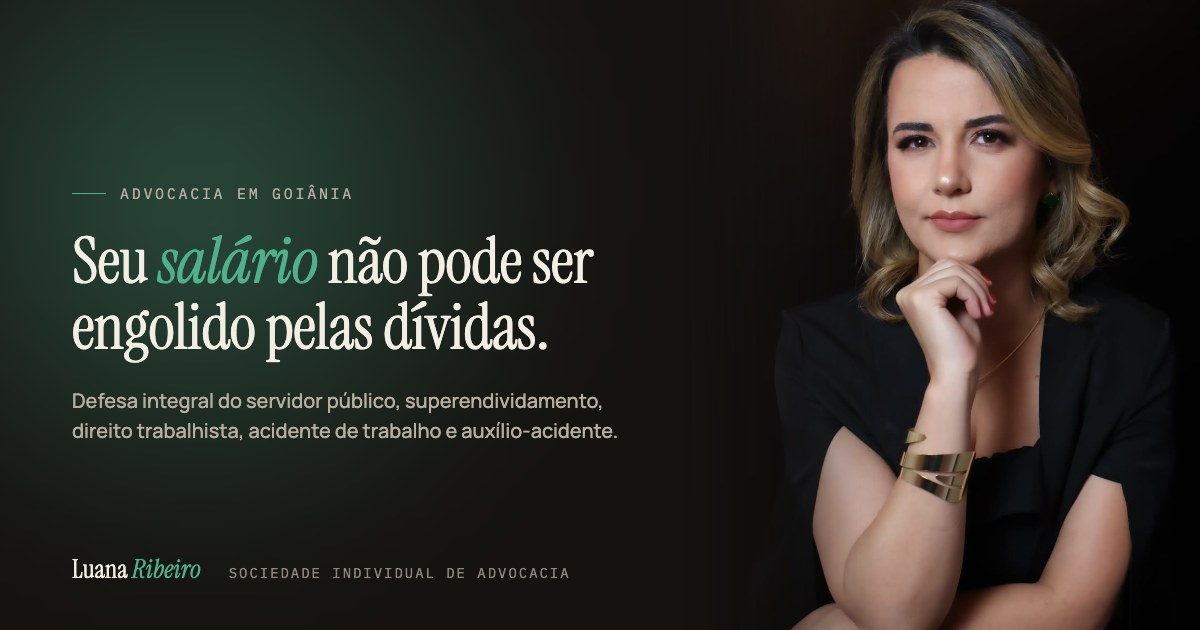
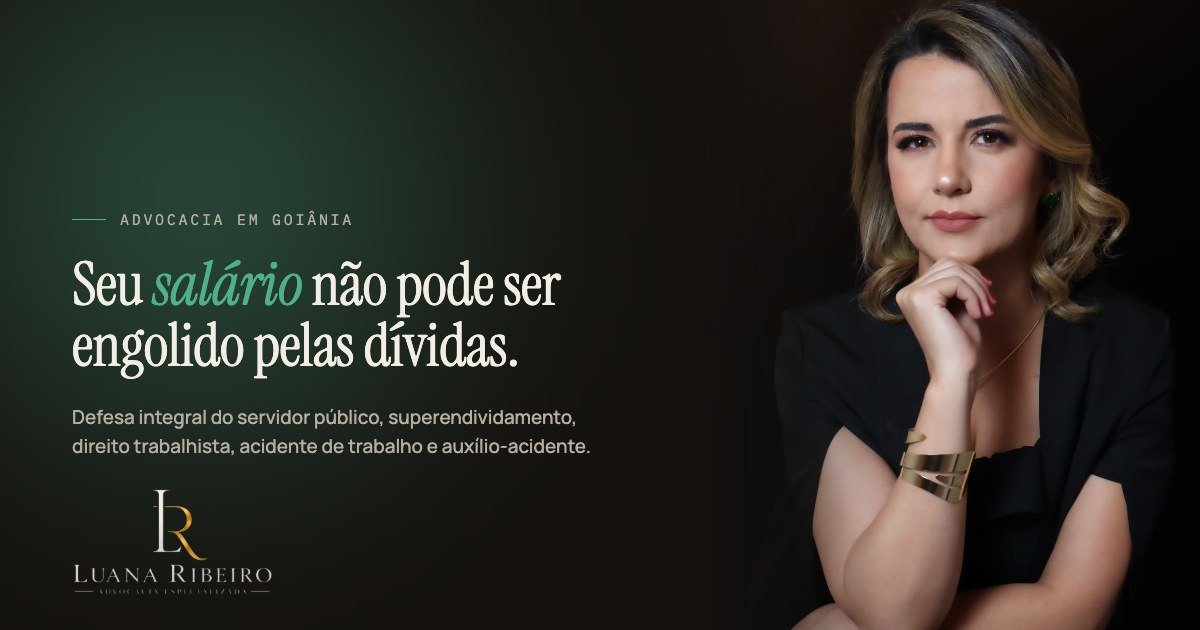
Monograma oficial e tríptico "Quem defendemos"
Monograma LR reprocessado a partir do JPEG do cliente: fundo transparente,
azul-marinho convertido para branco-osso, dourado preservado. Usado no menu,
no rodapé (lockup completo), no favicon, no ícone Apple e na imagem de
compartilhamento.

As três ilustrações fornecidas entram na seção "Quem defendemos" como um
tríptico em duotone, pré-recortadas em 4:5 para fora dos textos gerados e
do logo do INSS.

Changed region(s): [[0.0617, 0.3016, 0.5242, 0.7238], [0.0617, 0.7841, 0.4625, 0.9349]]

diff --git a/src/components/sections/Manifesto.module.css b/src/components/sections/Manifesto.module.css
@@ -13,6 +13,71 @@
   max-width: 20ch;
 }
 
+/* tríptico: quem o escritório defende */
+.triptych {
+  list-style: none;
+  margin: clamp(2.5rem, 5vw, 4rem) 0 0;
+  padding: 0;
+  display: grid;
+  grid-template-columns: 1fr;
+  gap: 1.25rem;
+}
+
+.panel {
+  display: flex;
+  flex-direction: column;
+  gap: 0.9rem;
+}
+
+.frame {
+  position: relative;
+  aspect-ratio: 4 / 5;
+  overflow: hidden;
+  border-radius: var(--radius);
+  background: var(--c-ink-3);
+}
+
+.img {
+  object-fit: cover;
+  /* duotone: tira a cor de banco de imagens e alinha as ilustrações ao mundo do site */
+  object-position: 50% 30%;
+  filter: grayscale(0.8) contrast(1.04) brightness(0.92);
+  transition: filter 900ms var(--ease-out);
+}
+
+.tint {
+  position: absolute;
+  inset: 0;
+  pointer-events: none;
+  background:
+    linear-gradient(to top, rgba(21, 18, 15, 0.8) 0%, rgba(21, 18, 15, 0.08) 40%, rgba(21, 18, 15, 0) 65%),
+    linear-gradient(160deg, rgba(30, 122, 90, 0.38), rgba(30, 122, 90, 0.1) 60%, rgba(30, 122, 90, 0.26));
+  transition: opacity 900ms var(--ease-out);
+}
+
+.panel:hover .img {
+  filter: grayscale(0.2) contrast(1.02) brightness(0.96);
+}
+.panel:hover .tint {
+  opacity: 0.55;
+}
+
+.panelLabel {
+  margin: 0;
+  display: flex;
+  align-items: baseline;
+  gap: 0.8rem;
+}
+.panelIndex {
+  font-size: 0.68rem;
+  letter-spacing: 0.14em;
+  color: var(--accent-fg);
+}
+.panelTitle {
+  font-size: clamp(1.25rem, 1.7vw, 1.6rem);
+  line-height: 1.1;
+}
+
 .rule {
   height: 1px;
   background: var(--line-strong);
@@ -43,13 +108,29 @@
 }
 
 @media (min-width: 640px) {
+  .triptych {
+    grid-template-columns: repeat(3, 1fr);
+  }
   .audiences {
     grid-template-columns: repeat(2, 1fr);
   }
 }
 @media (min-width: 1024px) {
+  .triptych {
+    gap: 2rem;
+  }
+  .panel:nth-child(2) {
+    margin-top: 3rem;
+  }
   .audiences {
     grid-template-columns: repeat(5, auto);
     justify-content: space-between;
+  }
+}
+
+@media (prefers-reduced-motion: reduce) {
+  .img,
+  .tint {
+    transition: none;
   }
 }

diff --git a/src/components/sections/Manifesto.tsx b/src/components/sections/Manifesto.tsx
@@ -1,3 +1,4 @@
+import Image from "next/image";
 import { manifesto } from "@/content/site";
 import styles from "./Manifesto.module.css";
 
@@ -15,11 +16,33 @@ export function Manifesto() {
           Defendemos quem <em>sustenta o país</em> com o próprio trabalho.
         </h2>
 
+        <ul className={styles.triptych}>
+          {manifesto.portraits.map((p, i) => (
+            <li key={p.src} className={styles.panel} data-reveal="scale" style={{ ["--i" as string]: i + 2 }}>
+              <div className={`img-reveal ${styles.frame}`}>
+                <Image
+                  src={p.src}
+                  alt={p.alt}
+                  fill
+                  quality={70}
+                  sizes="(max-width: 639px) 92vw, (max-width: 1023px) 30vw, 420px"
+                  className={styles.img}
+                />
+                <span className={styles.tint} aria-hidden="true" />
+              </div>
+              <p className={styles.panelLabel}>
+                <span className={`mono ${styles.panelIndex}`}>{String(i + 1).padStart(2, "0")}</span>
+                <span className={`display ${styles.panelTitle}`}>{p.label}</span>
+              </p>
+            </li>
+          ))}
+        </ul>
+
         <div className={`draw-line ${styles.rule}`} aria-hidden="true" />
 
         <ul className={styles.audiences}>
           {manifesto.audiences.map((a, i) => (
-            <li key={a} data-reveal style={{ ["--i" as string]: i + 3 }}>
+            <li key={a} data-reveal style={{ ["--i" as string]: i + 5 }}>
               <span className={`mono ${styles.num}`}>{String(i + 1).padStart(2, "0")}</span>
               <span className={styles.audience}>{a}</span>
             </li>

diff --git a/src/components/layout/Navbar.tsx b/src/components/layout/Navbar.tsx
@@ -2,6 +2,7 @@
 
 import { useCallback, useEffect, useId, useRef, useState } from "react";
 import { cta, firm, links, nav } from "@/content/site";
+import Image from "next/image";
 import { WhatsAppIcon } from "@/components/ui/Icons";
 import styles from "./Navbar.module.css";
 
@@ -86,9 +87,13 @@ export function Navbar() {
     >
       <nav className={styles.nav} aria-label="Navegação principal">
         <a href="#inicio" className={styles.brand} onClick={() => setOpen(false)}>
-          <span className={styles.brandMark} aria-hidden="true">
-            L
-          </span>
+          <Image
+            src="/brand/monograma-lr.png"
+            alt=""
+            width={363}
+            height={456}
+            className={styles.brandMark}
+          />
           <span className={styles.brandText}>
             <span className={styles.brandName}>Luana Ribeiro</span>
             <span className={`mono ${styles.brandSub}`}>Advocacia</span>

diff --git a/src/content/site.ts b/src/content/site.ts
@@ -70,6 +70,24 @@ export const hero = {
 
 export const manifesto = {
   line: "Defendemos quem sustenta o país com o próprio trabalho.",
+  /** Imagens ilustrativas geradas por IA, fornecidas pelo cliente; tratadas em duotone. */
+  portraits: [
+    {
+      src: "/images/quem-servidores.jpg",
+      label: "Servidores públicos",
+      alt: "Ilustração: bombeiro e professora em frente a uma escola, representando servidores públicos.",
+    },
+    {
+      src: "/images/quem-trabalhadores.jpg",
+      label: "Trabalhadores",
+      alt: "Ilustração: operário de capacete e colete em um canteiro de obras ao amanhecer.",
+    },
+    {
+      src: "/images/quem-acidentados.jpg",
+      label: "Quem sofreu acidente",
+      alt: "Ilustração: trabalhador com o braço imobilizado em frente a uma agência de previdência.",
+    },
+  ],
   audiences: [
     "Servidores públicos",
     "Trabalhadores",

diff --git a/src/components/layout/Footer.tsx b/src/components/layout/Footer.tsx
@@ -1,4 +1,5 @@
 import { cta, firm, footer, links, nav } from "@/content/site";
+import Image from "next/image";
 import { WhatsAppIcon } from "@/components/ui/Icons";
 import styles from "./Footer.module.css";
 
@@ -8,9 +9,14 @@ export function Footer() {
     <footer className={`theme-dark ${styles.footer}`}>
       <div className={`container ${styles.grid}`}>
         <div className={styles.brand}>
-          <p className={`display ${styles.name}`}>
-            Luana <em>Ribeiro</em>
-          </p>
+          <Image
+            src="/brand/monograma-lockup.png"
+            alt={`${firm.lawyer}, Advocacia Especializada`}
+            width={1280}
+            height={714}
+            className={styles.lockup}
+            sizes="(max-width: 767px) 72vw, 340px"
+          />
           <p className={styles.tagline}>{footer.tagline}</p>
           <a
             href={links.whatsapp}

diff --git a/src/components/layout/Navbar.module.css b/src/components/layout/Navbar.module.css
@@ -47,21 +47,12 @@
   gap: 0.8rem;
 }
 .brandMark {
-  width: 40px;
+  width: auto;
   height: 40px;
-  display: grid;
-  place-items: center;
-  border: 1px solid rgba(243, 238, 229, 0.28);
-  border-radius: 50%;
-  font-family: var(--font-display);
-  font-style: italic;
-  font-size: 1.35rem;
-  line-height: 1;
-  padding-bottom: 2px;
-  transition: border-color 400ms var(--ease-out);
+  transition: transform 500ms var(--ease-out);
 }
 .brand:hover .brandMark {
-  border-color: var(--c-accent-bright);
+  transform: translateY(-1px);
 }
 .brandText {
   display: flex;

diff --git a/src/components/layout/Footer.module.css b/src/components/layout/Footer.module.css
@@ -17,9 +17,9 @@
   align-items: flex-start;
   gap: 1.1rem;
 }
-.name {
-  margin: 0;
-  font-size: clamp(2rem, 3vw, 2.6rem);
+.lockup {
+  width: min(72vw, 340px);
+  height: auto;
 }
 .tagline {
   margin: 0;
